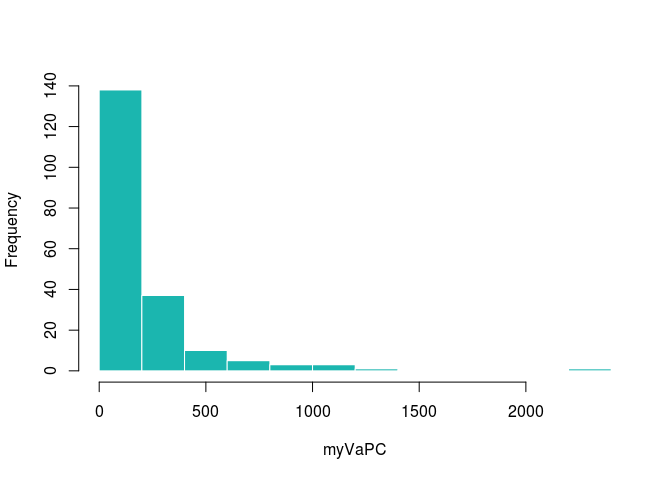
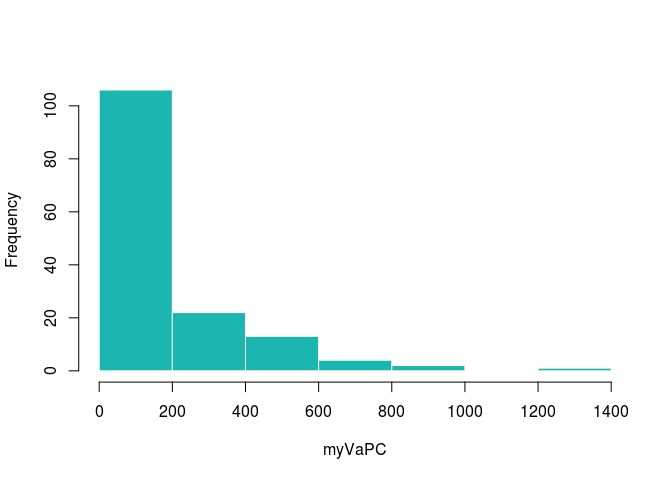
three pop sims

diff --git a/conceptual-figure.md b/conceptual-figure.md
@@ -13,7 +13,7 @@ output:
 
 
 
-What if I do 4 populations, like in my talks?
+3 populations
 
 
 ```r
@@ -21,12 +21,11 @@ i=1
 x1 <- runif(1) #getting a random number so there's a seed
 save(".Random.seed", file=paste("data/figure_sims/randomSeed.",i, sep=""))
 
-npops=4
+npops=3
 Faa = 0.15
 
-sigma = matrix(0,nrow=4, ncol=4)
+sigma = matrix(0,nrow=3, ncol=3)
 sigma[1:2,1:2] = matrix(Faa/2, nrow=2, ncol=2)
-sigma[3:4,3:4] = sigma[1:2,1:2]
 diag(sigma) = Faa
 library(viridis)
 ```
@@ -39,7 +38,7 @@ library(viridis)
 heatmap(sigma, col = viridis(4))
 ```
 
-![](conceptual-figure_files/figure-html/4pops-1.png)<!-- -->
+![](conceptual-figure_files/figure-html/3pops-1.png)<!-- -->
 
 ```r
 #simulate allele freqs in two pops at these loci
@@ -49,25 +48,30 @@ presentPops1 = sapply(ancPop, function(x){mvrnorm(n=1, mu = rep(x,npops), x*(1-x
 presentPops = apply(presentPops1, c(1,2), myBound) #deal with numbers greater or less than 0 (the outer bounds are sticky)
 
 #plot(ancPop, bty='n', xlab = "locus", ylab = "p")
-#sapply(1:100, function(x){lines(c(x,x), c(presentPops[1,x], presentPops[2,x]))})
+#sapply(1:500, function(x){lines(c(x,x), c(presentPops[1,x], presentPops[2,x]))})
 
 #get the population genotypes
 npop = 50
 popGenos = lapply(1:npops, function(x) getPopGenos(x, presentPops, npop)) #a list of elements, each is a population
 
 #make a kinship matrix
-myG = rbind(popGenos[[1]], popGenos[[2]], popGenos[[3]], popGenos[[4]])/2
+myG = rbind(popGenos[[1]], popGenos[[2]], popGenos[[3]])/2
 myK = make_k(myG)
 heatmap(myK)
 ```
 
-![](conceptual-figure_files/figure-html/4pops-2.png)<!-- -->
+![](conceptual-figure_files/figure-html/3pops-2.png)<!-- -->
 
 ```r
 myEig = eigen(myK)
 
-mycol = lacroix_palette('Mango')[1:4]
-#plot(1:50,myEig$values[1:50])
+mycol = lacroix_palette('Mango')
+plot(myEig$values, lwd=2, bty="n", col = mycol[6], xlab = "PC", ylab = "Eigenvalue")
+```
+
+![](conceptual-figure_files/figure-html/3pops-3.png)<!-- -->
+
+```r
 #plot(myEig$vectors[,1], myEig$vectors[,2], col = c(rep(mycol[1], 50),rep(mycol[2], 50), rep(mycol[3], 50), rep(mycol[4], 50)), bty='n', xlab= 'PC1', ylab = 'PC2', lwd=2, xlim = c(-.2, .2))
 #legend('topright', c('pop1','pop2', 'pop3','pop4'), bty="n", pch=1, pt.lwd=2, col = mycol)
 
@@ -81,39 +85,31 @@ popPhenos = getPopPhenos(popGenos, beetas)
 
 #plot(popPhenos[[1]], popPhenosNoise[[1]])
 
-
+nind = npops*npop - 1
 #myPhenos = unlist(popPhenosNoise)
-myPhenos = unlist(popPhenos)
-plot(myEig$vectors[,1], myPhenos[1:199], col = c(rep(mycol[1], 50),rep(mycol[2], 50), rep(mycol[3], 50), rep(mycol[4], 50)), bty="n", xlab = "PC1", ylab ="Sim phenos", lwd=2)
-myl = lm(myPhenos[1:199]~ myEig$vectors[,1])
+myPhenos = unlist(popPhenos) - mean(unlist(popPhenos))
+plot(myEig$vectors[,1], myPhenos[1:nind], col = c(rep(mycol[1], 50),rep(mycol[2], 50), rep(mycol[3], 50)), bty="n", xlab = "PC1", ylab ="Sim phenos", lwd=2)
+myl = lm(myPhenos[1:nind]~ myEig$vectors[,1])
 abline(myl)
 ```
 
-![](conceptual-figure_files/figure-html/4pops-3.png)<!-- -->
+![](conceptual-figure_files/figure-html/3pops-4.png)<!-- -->
 
 ```r
-plot(myEig$vectors[,2], myPhenos[1:199], col = c(rep(mycol[1], 50),rep(mycol[2], 50), rep(mycol[3], 50), rep(mycol[4], 50)), bty="n", xlab = "PC1", ylab ="Sim phenos", lwd=2)
-myl = lm(myPhenos[1:199]~ myEig$vectors[,2])
+plot(myEig$vectors[,2], myPhenos[1:nind], col = c(rep(mycol[1], 50),rep(mycol[2], 50), rep(mycol[3], 50), rep(mycol[4], 50)), bty="n", xlab = "PC1", ylab ="Sim phenos", lwd=2)
+myl = lm(myPhenos[1:nind]~ myEig$vectors[,2])
 abline(myl)
 ```
 
-![](conceptual-figure_files/figure-html/4pops-4.png)<!-- -->
+![](conceptual-figure_files/figure-html/3pops-5.png)<!-- -->
 
 ```r
-plot(myEig$vectors[,3], myPhenos[1:199], col = c(rep(mycol[1], 50),rep(mycol[2], 50), rep(mycol[3], 50), rep(mycol[4], 50)), bty="n", xlab = "PC1", ylab ="Sim phenos",lwd=2)
-myl = lm(myPhenos[1:199]~ myEig$vectors[,3])
+plot(myEig$vectors[,3], myPhenos[1:nind], col = c(rep(mycol[1], 50),rep(mycol[2], 50), rep(mycol[3], 50), rep(mycol[4], 50)), bty="n", xlab = "PC1", ylab ="Sim phenos",lwd=2)
+myl = lm(myPhenos[1:nind]~ myEig$vectors[,3])
 abline(myl)
 ```
 
-![](conceptual-figure_files/figure-html/4pops-5.png)<!-- -->
-
-```r
-plot(myEig$vectors[,4], myPhenos[1:199], col = c(rep(mycol[1], 50),rep(mycol[2], 50), rep(mycol[3], 50), rep(mycol[4], 50)), bty="n", xlab = "PC1", ylab ="Sim phenos", lwd=2)
-myl = lm(myPhenos[1:199]~ myEig$vectors[,4])
-abline(myl)
-```
-
-![](conceptual-figure_files/figure-html/4pops-6.png)<!-- -->
+![](conceptual-figure_files/figure-html/3pops-6.png)<!-- -->
 
 
 Now to show how we're estimating Va with the lower pcs
@@ -128,7 +124,7 @@ myVaGeno
 ```
 
 ```
-## [1] 157.0441
+## [1] 158.4759
 ```
 
 ```r
@@ -137,7 +133,7 @@ myVaAnc
 ```
 
 ```
-## [1] 161.6824
+## [1] 170.628
 ```
 
 ```r
@@ -148,17 +144,17 @@ myCs = sapply(1:ninds, function(x){
 }) #project traits onto PCs
 
 
-myVaAll = var0(myCs[1:198])/2
+myVaAll = var0(myCs[1:(nind-1)])/2
 myVaAll 
 ```
 
 ```
-## [1] 179.3133
+## [1] 169.7287
 ```
 
 ```r
 #plot Va estimates
-myVaPC = sapply(myCs[1:198], var0)/2
+myVaPC = sapply(myCs[1:(nind-1)], var0)/2
 hist(myVaPC, col = mycol[4], border="white", main = "") ##this is the right distribution, right?
 ```
 
@@ -177,6 +173,31 @@ summary(myVaPC)
 
 ```
 ##      Min.   1st Qu.    Median      Mean   3rd Qu.      Max. 
-##    0.0023   12.3227   79.4457  179.3133  249.2019 2311.4643
+##    0.0016   12.7532  105.6428  169.7287  223.4823 1334.2860
 ```
 
+So what does the final figure look like??
+
+
+```r
+par(mfrow=c(1,4), mar = c(5,5,2,2))
+myPhenos = unlist(popPhenos) - mean(unlist(popPhenos))
+plot(myEig$vectors[,1], myPhenos[1:nind], col = c(rep(mycol[1], 50),rep(mycol[2], 50), rep(mycol[3], 50)), bty="n", xlab = "PC1", ylab ="Trait", lwd=2)
+myl = lm(myPhenos[1:nind]~ myEig$vectors[,1])
+abline(myl, lwd=2, col = mycol[5])
+
+
+plot(myEig$vectors[,2], myPhenos[1:nind], col = c(rep(mycol[1], 50),rep(mycol[2], 50), rep(mycol[3], 50), rep(mycol[4], 50)), bty="n", xlab = "PC1", ylab ="Trait", lwd=2)
+myl = lm(myPhenos[1:nind]~ myEig$vectors[,2])
+abline(myl, lwd=2, col = mycol[5])
+
+
+plot(myEig$vectors[,3], myPhenos[1:nind], col = c(rep(mycol[1], 50),rep(mycol[2], 50), rep(mycol[3], 50), rep(mycol[4], 50)), bty="n", xlab = "PC1", ylab ="Trait",lwd=2)
+myl = lm(myPhenos[1:nind]~ myEig$vectors[,3])
+abline(myl, lwd=2, col = mycol[5])
+
+
+plot(myVaPC[1:50], bty="n", lwd=2, col = mycol[4], xlab = "PC", ylab = "Estimated Va")
+```
+
+TODO add CIs
